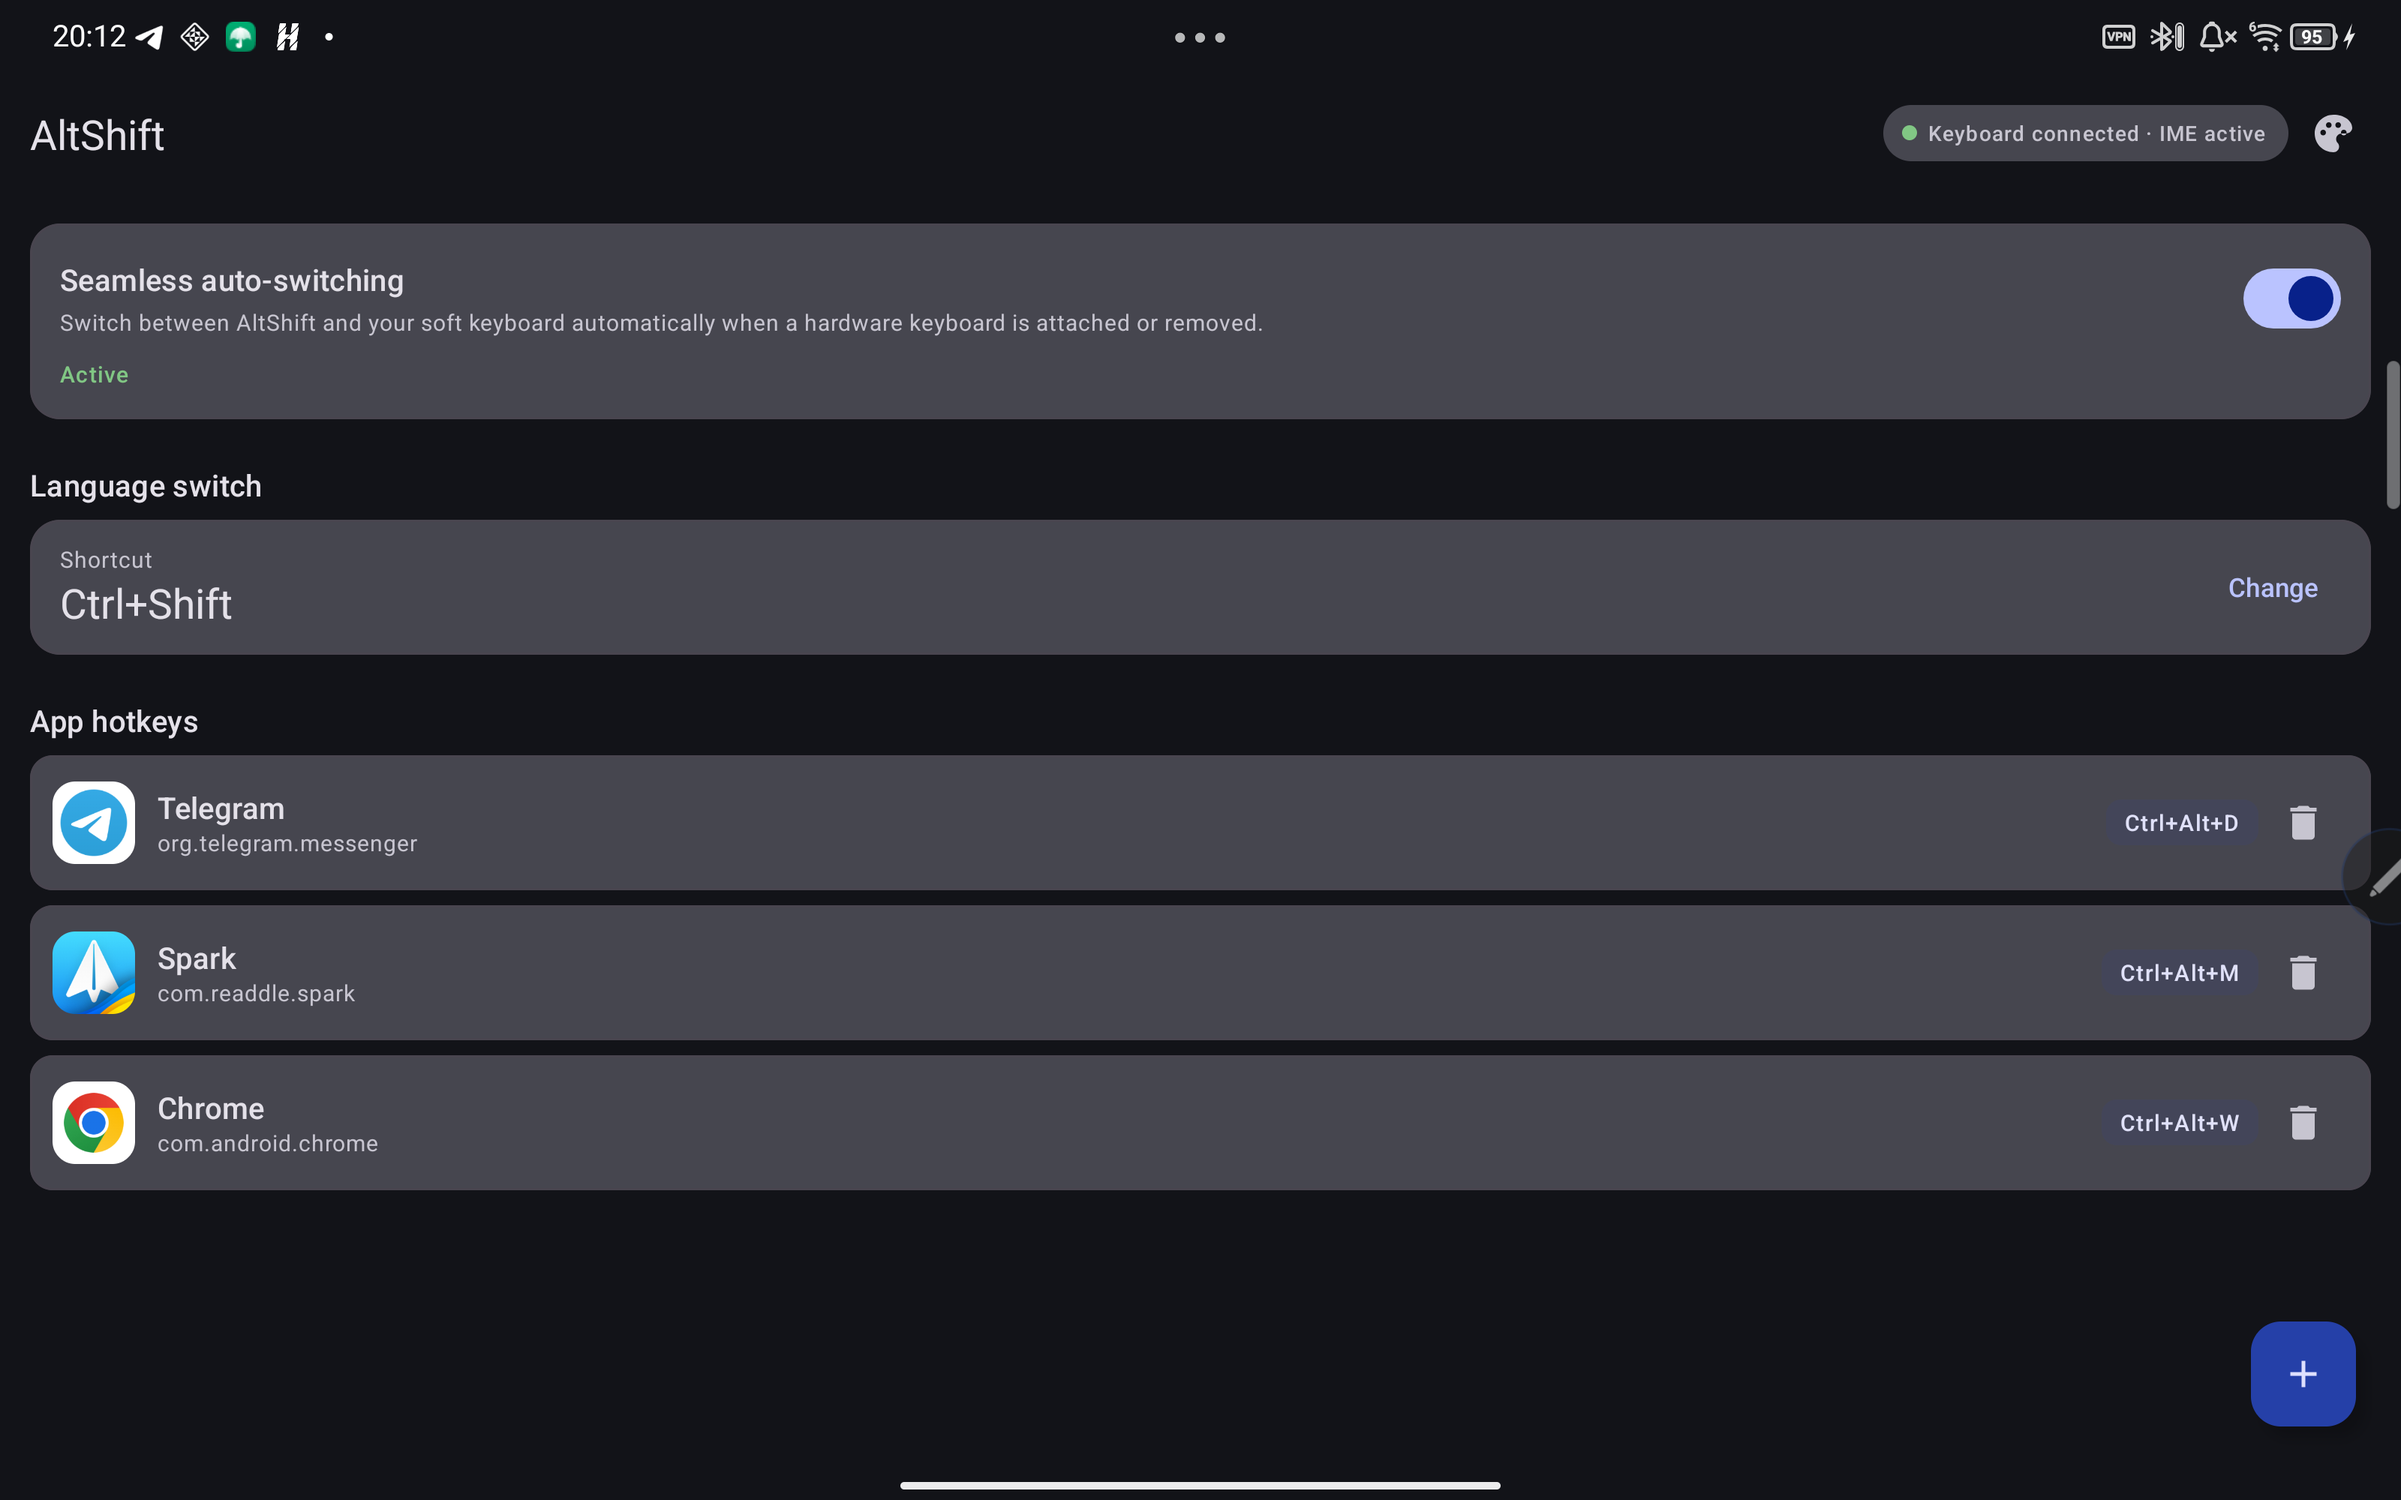
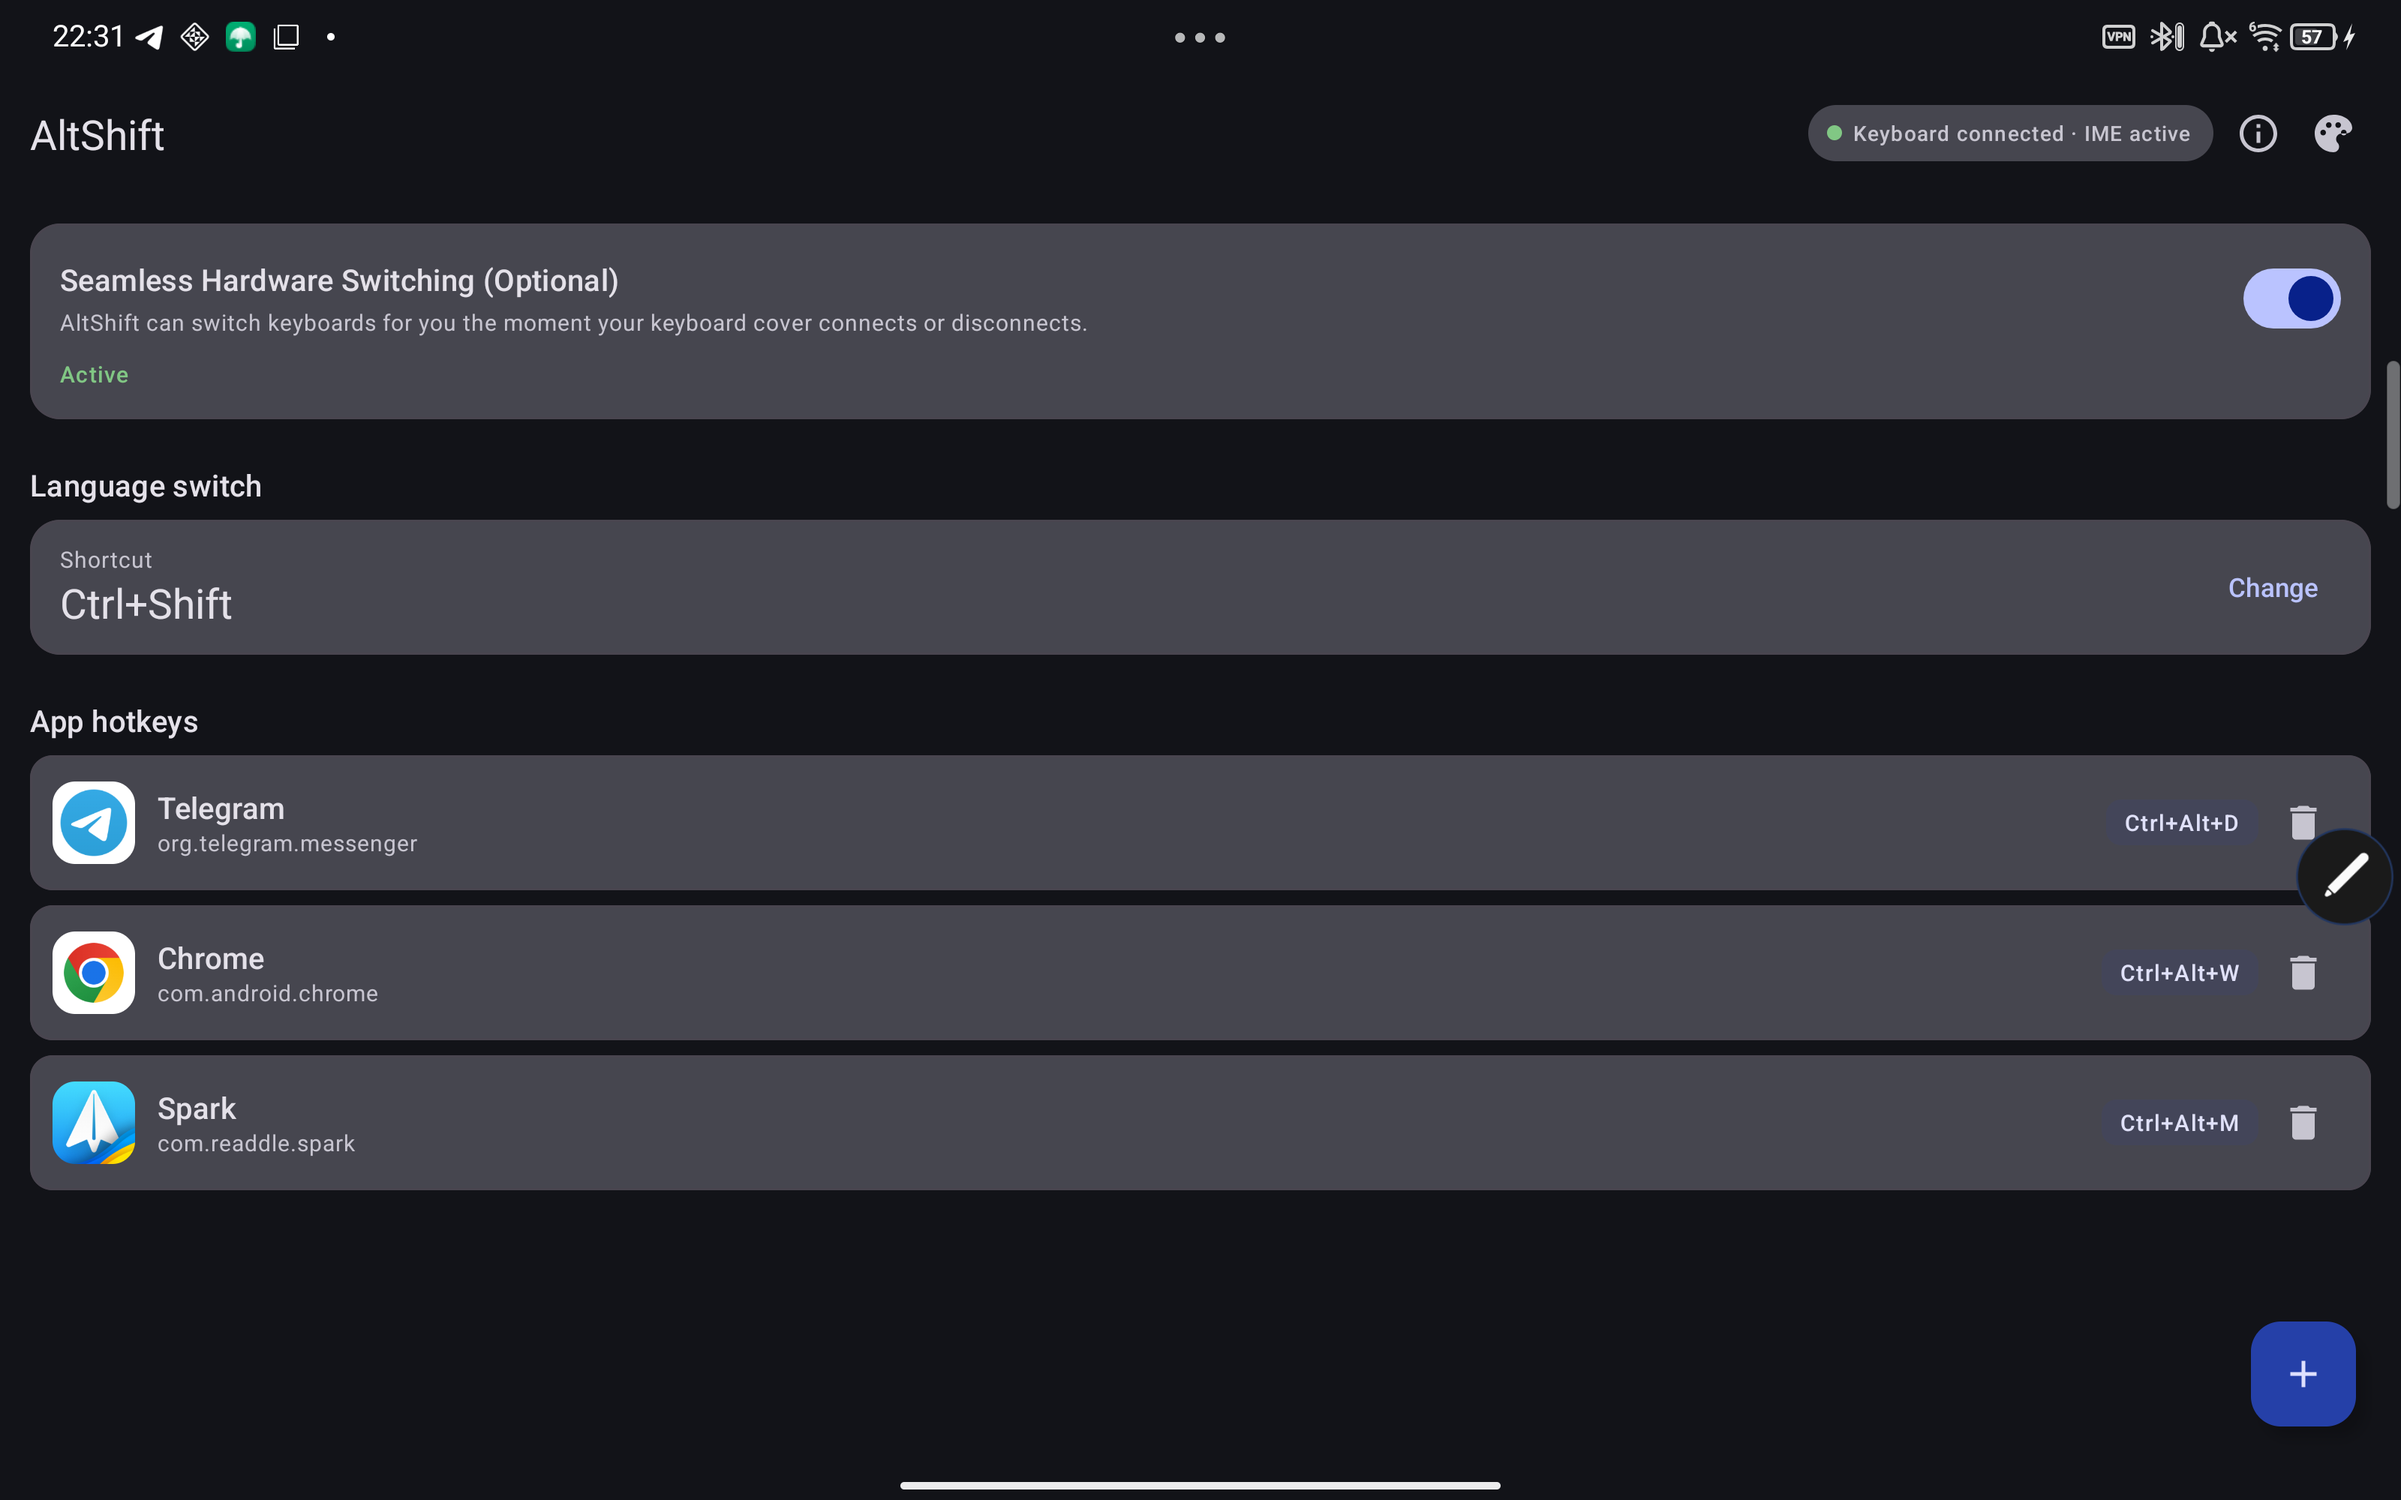
docs: update readme with v0.4 features, architecture, and current screenshots

diff --git a/README.md b/README.md
@@ -15,49 +15,56 @@
     <a href="#license">
         <img src="https://img.shields.io/badge/License-GPLv3-blue?style=flat-square" alt="License" />
     </a>
-    <a href="#">
+    <a href="#requirements">
         <img src="https://img.shields.io/badge/Platform-Android%208.0%2B-brightgreen?style=flat-square" alt="Platform" />
     </a>
 </p>
 <p align="center">
-    <a href="#overview">Overview</a> •
-    <a href="#features">Features</a> •
-    <a href="#requirements">Requirements</a> •
-    <a href="#building-from-cli">Building from CLI</a> •
-    <a href="#adb-setup">ADB Setup</a> •
-    <a href="#configuration">Configuration</a> •
+    <a href="#overview">Overview</a> &bull;
+    <a href="#feature-matrix">Feature Matrix</a> &bull;
+    <a href="#requirements">Requirements</a> &bull;
+    <a href="#building-from-cli">Building from CLI</a> &bull;
+    <a href="#local-signing">Local Signing</a> &bull;
+    <a href="#adb-setup">ADB Setup</a> &bull;
+    <a href="#configuration">Configuration</a> &bull;
     <a href="#license">License</a>
 </p>
 <hr>
 
 <p align="center">
-    <img src="docs/screenshots/gui.png" alt="AltShift dashboard" width="720" />
+    <img src="docs/screenshots/gui.png" alt="AltShift Dashboard" width="760" />
 </p>
 
-A minimal input method service for physical keyboards on Android. AltShift maps Latin scancodes to Cyrillic characters in a single, allocation-free lookup table and launches applications from user-defined hardware key combinations. No cloud services, no telemetry, no background daemons.
+A minimal input method service for physical keyboards on Android. AltShift maps Latin scancodes to Cyrillic characters through a single, allocation-free lookup table and launches applications from user-defined hardware key combinations. No cloud services, no telemetry, no background daemons.
 
 ## Overview
 
-AltShift is a hardware-first IME. It does not draw a full soft keyboard; it sits between the physical keyboard and the focused application, translates key events when Russian mode is active, and consumes only the combinations explicitly configured by the user. Everything else is passed through untouched. A fullscreen onboarding wizard verifies IME enablement, active selection, overlay access, and notification delivery. When a physical keyboard is attached or removed, AltShift can switch input methods automatically through the secure settings permission, or fall back to a one-tap notification prompt. The app relies only on public AOSP APIs and behaves identically on every Android 8.0+ device, regardless of the manufacturer or system skin.
+AltShift is a hardware-first IME. It does not draw a full soft keyboard; it sits between the physical keyboard and the focused application, translates key events when Russian mode is active, and consumes only the combinations explicitly configured by the user. Everything else is passed through untouched.
 
-The service is written in pure Java 21 with native XML views and Material 3 components. Configuration is stored locally in `SharedPreferences` as JSON. The project has no Kotlin source files and no annotation processors.
+Version **v0.4** completes the transition to a universal AOSP architecture. The service relies exclusively on public Android APIs and behaves identically across Lenovo, Samsung, Xiaomi, Google Pixel, and other Android 8.0+ devices, with no vendor-specific branches or OEM workarounds. When a physical keyboard is attached or removed, AltShift can either switch input methods autonomously through `WRITE_SECURE_SETTINGS` or fall back to a one-tap Dynamic Island prompt and the native system IME picker.
 
-## Features
+The service is written in pure Java 21 with native XML views and Material 3 components. Configuration is stored locally in `SharedPreferences` as JSON. The project has no Kotlin source files, no Compose, and no annotation processors.
 
-- **Russian transliteration**: Standard ЙЦУКЕН mapping with Shift and CapsLock support, including full Russian PC layout emulation for the number row and punctuation symbols.
-- **Language toggle**: Default `Alt + Shift`, configurable from the settings UI. The OS subtype switcher is bypassed.
-- **App hotkeys**: Bind any physical key combination to an installed application.
-- **Zero-allocation input loop**: Static primitive-indexed lookup tables and preallocated strings; no iterators, string concatenation, or runtime allocation while typing.
-- **Fail-safe service**: External intents and input connection calls are guarded; an IME exception must never take down system input.
-- **Fullscreen onboarding**: A three-step wizard with large iconography, step indicator dots, and one-tap permission actions.
-- **Autonomous ADB switching**: With `WRITE_SECURE_SETTINGS` granted over ADB, AltShift switches to itself when a hardware keyboard attaches and back to the previous on-screen keyboard when it detaches, without pickers or prompts.
-- **Dual-mode fallback**: Without the secure-settings grant, AltShift keeps working interactively through a Dynamic Island prompt, a tap-to-switch notification, and the native keyboard picker.
-- **Heads-Up alert banners**: High-importance keyboard alerts and safety warnings surface as heads-up banners, including a warning when AltShift is the only enabled keyboard.
-- **Theme modes**: Light and dark themes, plus a system default, persisted across launches and applied application-wide.
-- **About dialog**: Version details, hardware diagnostics (keyboard name, VID/PID, active IME, switch mode), repository link, and a setup-wizard rerun action.
-- **Native settings**: Material 3 dashboard, toolbar status badge, language shortcut card, auto-switch controls, hotkey list, key-capture dialog, and application picker.
-- **Zero telemetry**: No cloud services, no analytics, no background daemons, and no network permissions. Configuration stays in local `SharedPreferences`.
-- **Zero bloat**: No DI framework, no Kotlin, no Compose. `SharedPreferences` and `org.json` only.
+## Feature Matrix
+
+| Area | Capability | v0.4 behavior |
+| --- | --- | --- |
+| Input engine | Full Russian PC layout emulation | Complete ЙЦУКЕН mapping for letters, punctuation, and the number row (`1..0`, `-`, `=`), with strict CapsLock isolation: CapsLock only affects alphabetic keys and never inverts digits or symbols. |
+| Input engine | Zero-allocation typing loop | Static primitive-indexed lookup tables and preallocated strings; no iterators, string concatenation, or runtime allocation while typing. |
+| Hotkeys | Custom application hotkeys | Bind any physical key combination to an installed app. Shortcuts are dispatched directly through the launcher intent, avoiding vendor background-launch prompts. |
+| Switching | Tablet Dynamic Island | A 420dp floating capsule with a one-tap action that opens the direct system IME picker, designed for tablets and large screens. |
+| Switching | Dual-mode input switching | On keyboard detach, AltShift returns to the native soft keyboard with zero permissions. With `WRITE_SECURE_SETTINGS`, autonomous attach/detach switching is also available. |
+| Alerts | Standardized Heads-Up banners | Production channels `altshift_keyboard_alerts` and `altshift_safety_warnings` surface keyboard and safety events as Telegram-style drop-down heads-up alerts. |
+| Alerts | Smart deferred inactive alert | The inactive-keyboard alert appears only after the user interacts with the picker and selects another keyboard. Ignored prompts produce zero spam. |
+| Safety | Single-IME lockout protection | A dedicated safety warning fires when AltShift is the only enabled IME, preventing a lockout after the hardware keyboard is removed. |
+| Safety | Fail-safe service | External intents, input connection calls, and secure-setting writes are guarded; an IME exception must never take down system input. |
+| Compatibility | Universal AOSP architecture | 100% public API implementation with zero vendor lock-in. The same build runs identically on Lenovo, Samsung, Xiaomi, Google Pixel, and other AOSP-derived devices. |
+| UI | Material 3 dashboard | Toolbar status badge, language shortcut card, auto-switch controls, hotkey list, key-capture dialog, and application picker. |
+| UI | Theme selector | Light, Dark, and System modes, applied application-wide and persisted across launches. |
+| UI | About dialog | Live hardware diagnostics (keyboard name, VID/PID, active IME, auto-switch mode), version details, repository link, and a re-run onboarding action. |
+| UI | Fullscreen onboarding | Three-step wizard with large iconography, step indicator dots, permission verification, and one-tap actions. |
+| Footprint | Zero telemetry, zero cloud | No analytics, no network permissions, no background daemons. Configuration stays in local `SharedPreferences`. |
+| Footprint | Lean runtime | Pure Java 21, under 25 MB RAM, and 0% CPU while idle. No DI framework, no Kotlin, no Compose. |
 
 ## Requirements
 
@@ -83,7 +90,25 @@ Build the debug APK:
 The artifact is written to:
 
 ```text
-app/build/outputs/apk/debug/app-debug.apk
+app/build/outputs/apk/debug/AltShift-v0.4-debug.apk
+```
+
+Build an unsigned or environment-signed release APK:
+
+```bash
+./gradlew assembleRelease
+```
+
+The artifact is written to:
+
+```text
+app/build/outputs/apk/release/AltShift-v0.4.apk
+```
+
+Run the unit tests and Android Lint before shipping:
+
+```bash
+./gradlew test lintDebug
 ```
 
 Clean the build outputs:
@@ -91,6 +116,35 @@ Clean the build outputs:
 ```bash
 ./gradlew clean
 ```
+
+## Local Signing
+
+Release signing is driven entirely by environment variables, so no keystore or password is ever committed. The repository ships a documented template at `scripts/build-release.sh.example`:
+
+```bash
+cp scripts/build-release.sh.example scripts/build-release.sh
+chmod +x scripts/build-release.sh
+```
+
+Edit `KEYSTORE_FILE` and `KEY_ALIAS` in the local copy, then run:
+
+```bash
+./scripts/build-release.sh
+```
+
+The template exports `KEYSTORE_FILE` and `KEY_ALIAS`, reads `KEYSTORE_PASSWORD` from the environment (or prompts interactively), reuses it for `KEY_PASSWORD` unless overridden, and invokes `./gradlew assembleRelease`. The local script itself is ignored by Git through `scripts/build-release.sh` in `.gitignore`.
+
+Equivalent manual invocation:
+
+```bash
+KEYSTORE_FILE="$HOME/.android/keystores/altshift-release.jks" \
+KEYSTORE_PASSWORD="..." \
+KEY_ALIAS="altshift" \
+KEY_PASSWORD="..." \
+./gradlew assembleRelease
+```
+
+CI uses the same contract: it decodes `KEYSTORE_BASE64` into `app/release.jks`, maps the keystore secrets to the environment variables above, builds both debug and release APKs, and publishes them to the GitHub release for `v*` tags.
 
 ## ADB Setup
 
@@ -103,7 +157,7 @@ adb devices
 Install or update the debug build:
 
 ```bash
-adb install -r app/build/outputs/apk/debug/app-debug.apk
+adb install -r app/build/outputs/apk/debug/AltShift-v0.4-debug.apk
 ```
 
 Grant the secure settings permission to enable autonomous input method switching:
@@ -112,7 +166,7 @@ Grant the secure settings permission to enable autonomous input method switching
 adb shell pm grant ru.b1sted.altshift android.permission.WRITE_SECURE_SETTINGS
 ```
 
-This development permission is optional. Without it, AltShift falls back to the notification and keyboard picker prompts. Android 13 and newer also request notification permission on first launch.
+This development permission is optional. Without it, AltShift falls back to the Dynamic Island prompt, a tap-to-switch notification, and the native keyboard picker. Android 13 and newer also request notification permission on first launch.
 
 Enable the input method:
 
